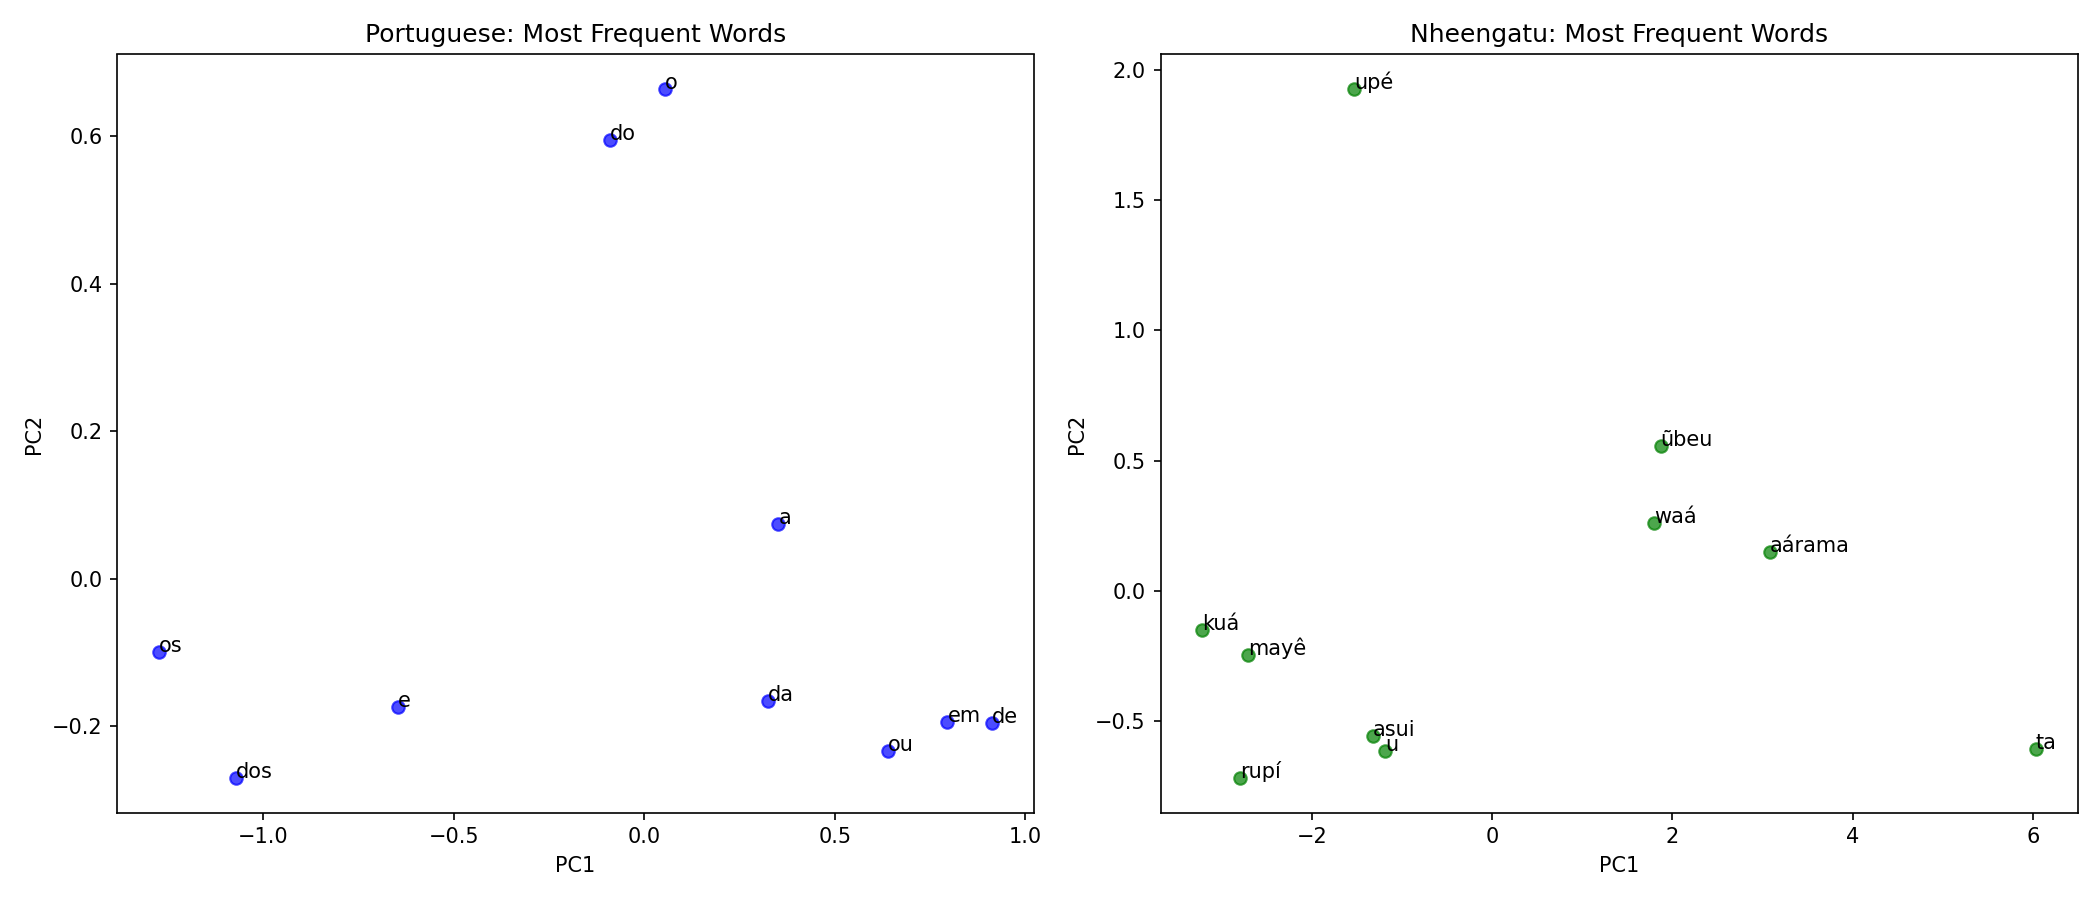
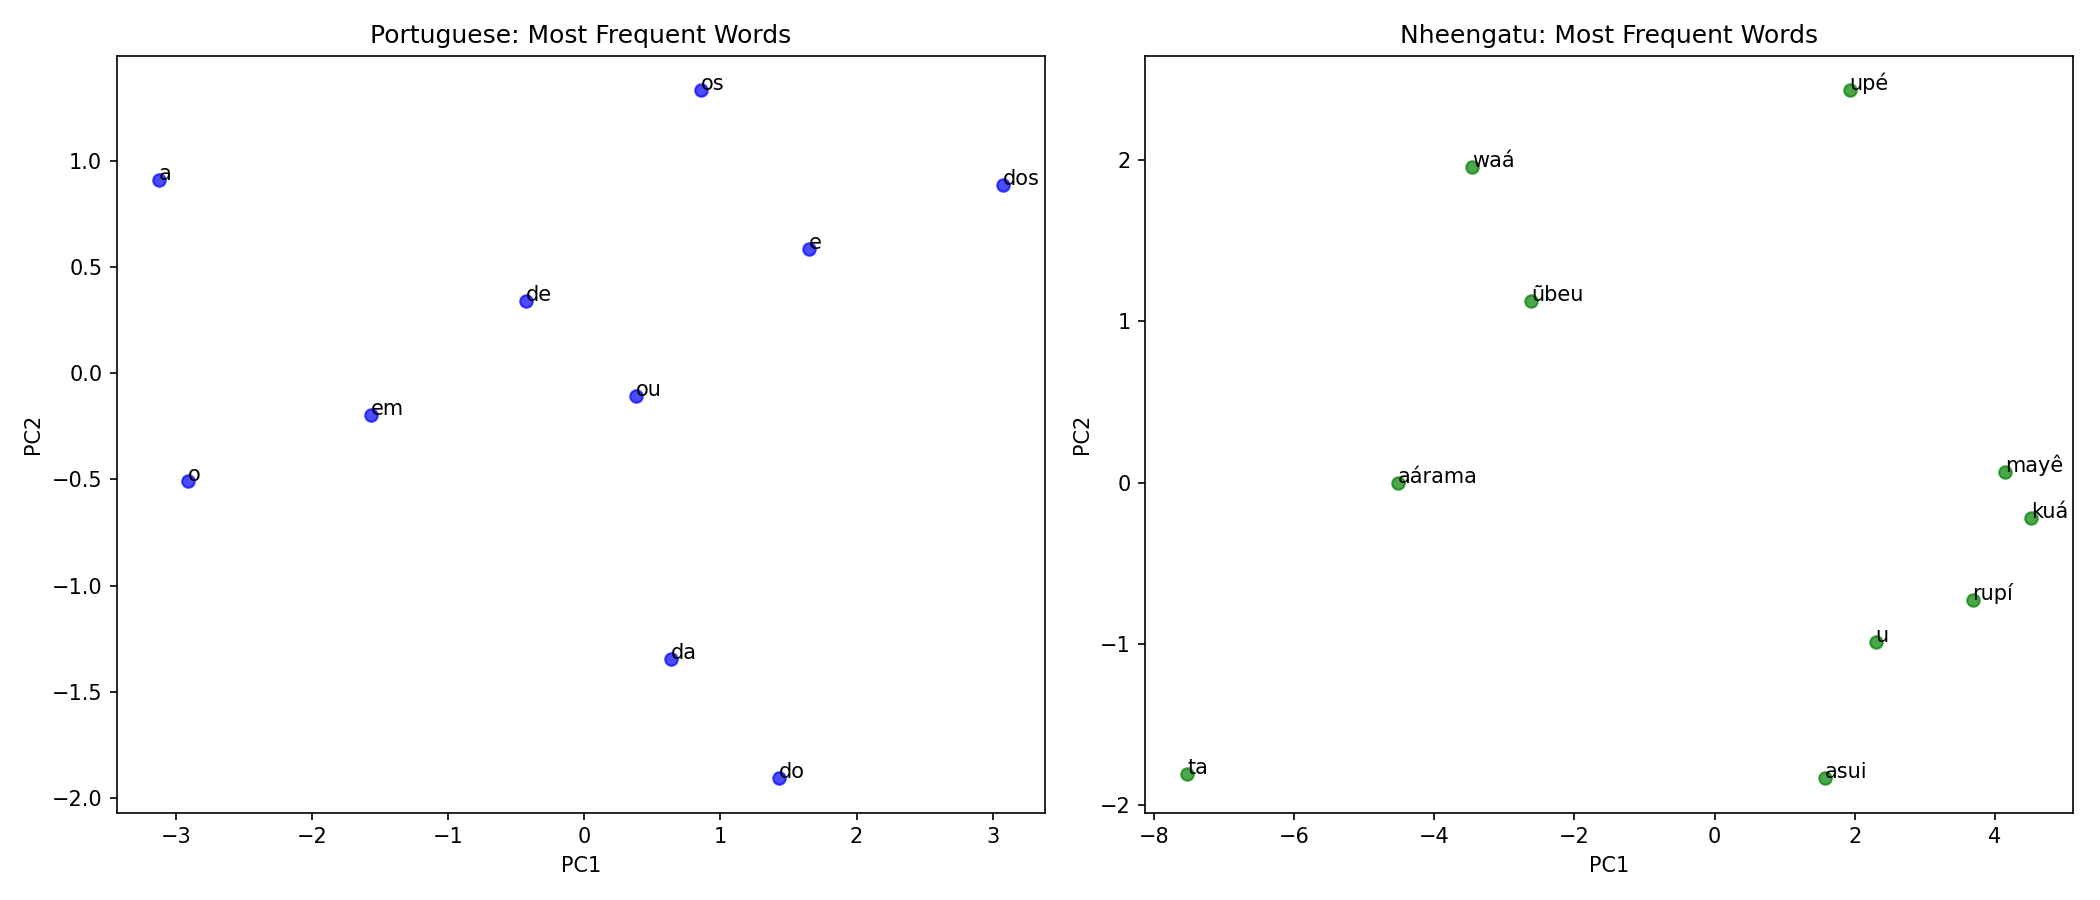
Refactor tests to improve clarity and functionality; adjust body start occurrence in config

diff --git a/experiments/05_visualization/plot_semantic_spaces.py b/experiments/05_visualization/plot_semantic_spaces.py
@@ -4,6 +4,10 @@ from gensim.models import Word2Vec
 from sklearn.decomposition import PCA
 import matplotlib.pyplot as plt
 import matplotlib.patches as mpatches
+from pathlib import Path
+
+# Get project root
+PROJECT_ROOT = Path(__file__).parent.parent.parent
 
 print("="*70)
 print("VISUALIZING SEMANTIC SPACES")
@@ -11,8 +15,28 @@ print("Portuguese vs Nheengatu")
 print("="*70)
 
 # Load models
-pt_model = Word2Vec.load("experiments/01_word2vec/results/pt_w2v_large.model")
-nhe_model = Word2Vec.load("experiments/01_word2vec/results/nhe_w2v_large.model")
+pt_model_path = PROJECT_ROOT / "experiments/01_word2vec/results/pt_w2v_large.model"
+nhe_model_path = PROJECT_ROOT / "experiments/01_word2vec/results/nhe_w2v_large.model"
+
+if not pt_model_path.exists():
+    print(f"❌ PT model not found: {pt_model_path}")
+    print("Run 'make exp-word2vec' first")
+    exit(1)
+
+if not nhe_model_path.exists():
+    print(f"❌ NHE model not found: {nhe_model_path}")
+    print("Run 'make exp-word2vec' first")
+    exit(1)
+
+pt_model = Word2Vec.load(str(pt_model_path))
+nhe_model = Word2Vec.load(str(nhe_model_path))
+
+print(f"✅ PT model: {len(pt_model.wv)} words")
+print(f"✅ NHE model: {len(nhe_model.wv)} words")
+
+# Create output directory
+plots_dir = PROJECT_ROOT / "experiments/05_visualization/plots"
+plots_dir.mkdir(parents=True, exist_ok=True)
 
 # 1. Plot: Most frequent words in both languages
 fig, axes = plt.subplots(1, 2, figsize=(14, 6))
@@ -46,7 +70,7 @@ axes[1].set_xlabel('PC1')
 axes[1].set_ylabel('PC2')
 
 plt.tight_layout()
-plt.savefig('experiments/05_visualization/plots/freq_words_pca.png', dpi=150)
+plt.savefig(plots_dir / 'freq_words_pca.png', dpi=150)
 print("✅ Saved: freq_words_pca.png")
 
 # 2. Plot: Semantic fields comparison
@@ -87,7 +111,7 @@ for idx, (title, (pt_words, nhe_words)) in enumerate(semantic_fields.items()):
     axes[idx, 2].legend()
 
 plt.tight_layout()
-plt.savefig('experiments/05_visualization/plots/semantic_fields.png', dpi=150)
+plt.savefig(plots_dir / 'semantic_fields.png', dpi=150)
 print("✅ Saved: semantic_fields.png")
 
 # 3. Plot: Singular-plural pairs similarity
@@ -110,7 +134,7 @@ for i, (bar, sim) in enumerate(zip(bars, similarities)):
     ax.text(sim + 0.001, bar.get_y() + bar.get_height()/2, f'{sim:.3f}', va='center')
 
 plt.tight_layout()
-plt.savefig('experiments/05_visualization/plots/singular_plural_similarity.png', dpi=150)
+plt.savefig(plots_dir / 'singular_plural_similarity.png', dpi=150)
 print("✅ Saved: singular_plural_similarity.png")
 
 print("\n✅ All visualizations saved to experiments/05_visualization/plots/")

diff --git a/experiments/02_fasttext/train.py b/experiments/02_fasttext/train.py
@@ -1,29 +1,49 @@
-# experiments/02_fasttext/train.py
+#!/usr/bin/env python3
+"""Train FastText models on Nheengatu and Portuguese corpora"""
+
 import fasttext
 from pathlib import Path
 
-BASE_DIR = Path(__file__).parent
-data_dir = BASE_DIR    
-out_dir  = BASE_DIR / "results"
-out_dir.mkdir(exist_ok=True)
+# Paths (relative to project root)
+PROJECT_ROOT = Path(__file__).parent.parent.parent
+CORPUS_PT = PROJECT_ROOT / "data/processed/corpus_clean.pt"
+CORPUS_NHE = PROJECT_ROOT / "data/processed/corpus_clean.nhe"
+OUTPUT_DIR = PROJECT_ROOT / "experiments/02_fasttext/results"
 
-# Optional: retrain Portuguese at 300d if you want a matching from-scratch baseline
-# but we won't use it for the alignment with pretrained PT.
-print('Training Portuguese model on merged corpus (300d, optional)...')
-pt = fasttext.train_unsupervised(
-    str(data_dir / 'corpus_merged.pt'),
-    model='skipgram', dim=300, epoch=20,
-    minCount=1, minn=3, maxn=6, thread=4
-)
-pt.save_model(str(out_dir / 'model_merged_300d.pt.bin'))
-print(f'  Vocabulary: {len(pt.words)} words')
+OUTPUT_DIR.mkdir(parents=True, exist_ok=True)
 
-print('Training Nheengatu model on merged corpus (300d)...')
-nhe = fasttext.train_unsupervised(
-    str(data_dir / 'corpus_merged.nhe'),
-    model='skipgram', dim=300, epoch=20,
-    minCount=1, minn=3, maxn=6, thread=4
-)
-nhe.save_model(str(out_dir / 'model_merged.nhe.bin'))   # overwrites the 100d version
-print(f'  Vocabulary: {len(nhe.words)} words')
-print('Done.')
+print("="*60)
+print("FASTTEXT TRAINING")
+print("="*60)
+
+# Train Portuguese model
+print(f"\n📚 Training Portuguese model from {CORPUS_PT}")
+if CORPUS_PT.exists():
+    model_pt = fasttext.train_unsupervised(
+        str(CORPUS_PT),
+        model='skipgram',
+        dim=300,
+        epoch=10,
+        minCount=3
+    )
+    model_pt.save_model(str(OUTPUT_DIR / "model_clean.pt.bin"))
+    print(f"✅ Portuguese model saved ({OUTPUT_DIR / 'model_clean.pt.bin'})")
+else:
+    print(f"❌ Corpus not found: {CORPUS_PT}")
+
+# Train Nheengatu model
+print(f"\n📚 Training Nheengatu model from {CORPUS_NHE}")
+if CORPUS_NHE.exists():
+    model_nhe = fasttext.train_unsupervised(
+        str(CORPUS_NHE),
+        model='skipgram',
+        dim=300,
+        epoch=10,
+        minCount=3
+    )
+    model_nhe.save_model(str(OUTPUT_DIR / "model_clean.nhe.bin"))
+    print(f"✅ Nheengatu model saved ({OUTPUT_DIR / 'model_clean.nhe.bin'})")
+else:
+    print(f"❌ Corpus not found: {CORPUS_NHE}")
+
+print("\n✅ FastText training complete!")

diff --git a/experiments/01_word2vec/train_word2vec.py b/experiments/01_word2vec/train_word2vec.py
@@ -1,7 +1,5 @@
-"""
-experiments/01_word2vec/train_word2vec.py
-Word2Vec baseline for Portuguese-Nheengatu parallel corpus.
-"""
+#!/usr/bin/env python3
+"""Word2Vec baseline for Portuguese-Nheengatu parallel corpus."""
 
 import json
 import sys
@@ -9,11 +7,10 @@ from pathlib import Path
 from gensim.models import Word2Vec
 from collections import Counter
 
-# Add project root to path
-sys.path.insert(0, str(Path(__file__).parent.parent.parent))
+# Get project root (4 levels up from this file)
+PROJECT_ROOT = Path(__file__).parent.parent.parent
+corpus_path = PROJECT_ROOT / "data/processed/merged_5028_pairs.json"
 
-# Load corpus
-corpus_path = Path("data/processed/sentence_pairs.json")
 with open(corpus_path, 'r') as f:
     data = json.load(f)
 
@@ -28,39 +25,17 @@ pt_sentences = [item['pt'].lower().split() for item in data]
 nhe_sentences = [item['nhe'].lower().split() for item in data]
 
 # Train models
-models = {}
-
 for lang, sents in [('pt', pt_sentences), ('nhe', nhe_sentences)]:
     print(f"\n🔧 Training {lang} model...")
     
     # Small window (syntactic)
     m_small = Word2Vec(sents, vector_size=100, window=3, min_count=3, epochs=10)
-    m_small.save(f"experiments/01_word2vec/results/{lang}_w2v_small.model")
+    m_small.save(str(PROJECT_ROOT / f"experiments/01_word2vec/results/{lang}_w2v_small.model"))
     
     # Large window (semantic)
     m_large = Word2Vec(sents, vector_size=100, window=10, min_count=3, epochs=10)
-    m_large.save(f"experiments/01_word2vec/results/{lang}_w2v_large.model")
-    
-    models[lang] = {'small': m_small, 'large': m_large}
+    m_large.save(str(PROJECT_ROOT / f"experiments/01_word2vec/results/{lang}_w2v_large.model"))
     
     print(f"   Vocabulary: {len(m_small.wv)} / {len(m_large.wv)}")
-
-# Test similarities
-print("\n🔍 TESTING WORD SIMILARITIES")
-print("-"*40)
-
-# Portuguese test
-print("\nPortuguese (window=10):")
-for word in ['direito', 'liberdade', 'justiça', 'povo']:
-    if word in models['pt']['large'].wv:
-        sim = models['pt']['large'].wv.most_similar(word, topn=3)
-        print(f"  {word}: {sim}")
-
-# Nheengatu test
-print("\nNheengatu (window=10):")
-for word in ['direitu', 'timaãresésá', 'miíra', 'tetãma']:
-    if word in models['nhe']['large'].wv:
-        sim = models['nhe']['large'].wv.most_similar(word, topn=3)
-        print(f"  {word}: {sim}")
 
 print("\n✅ Models saved to experiments/01_word2vec/results/")
